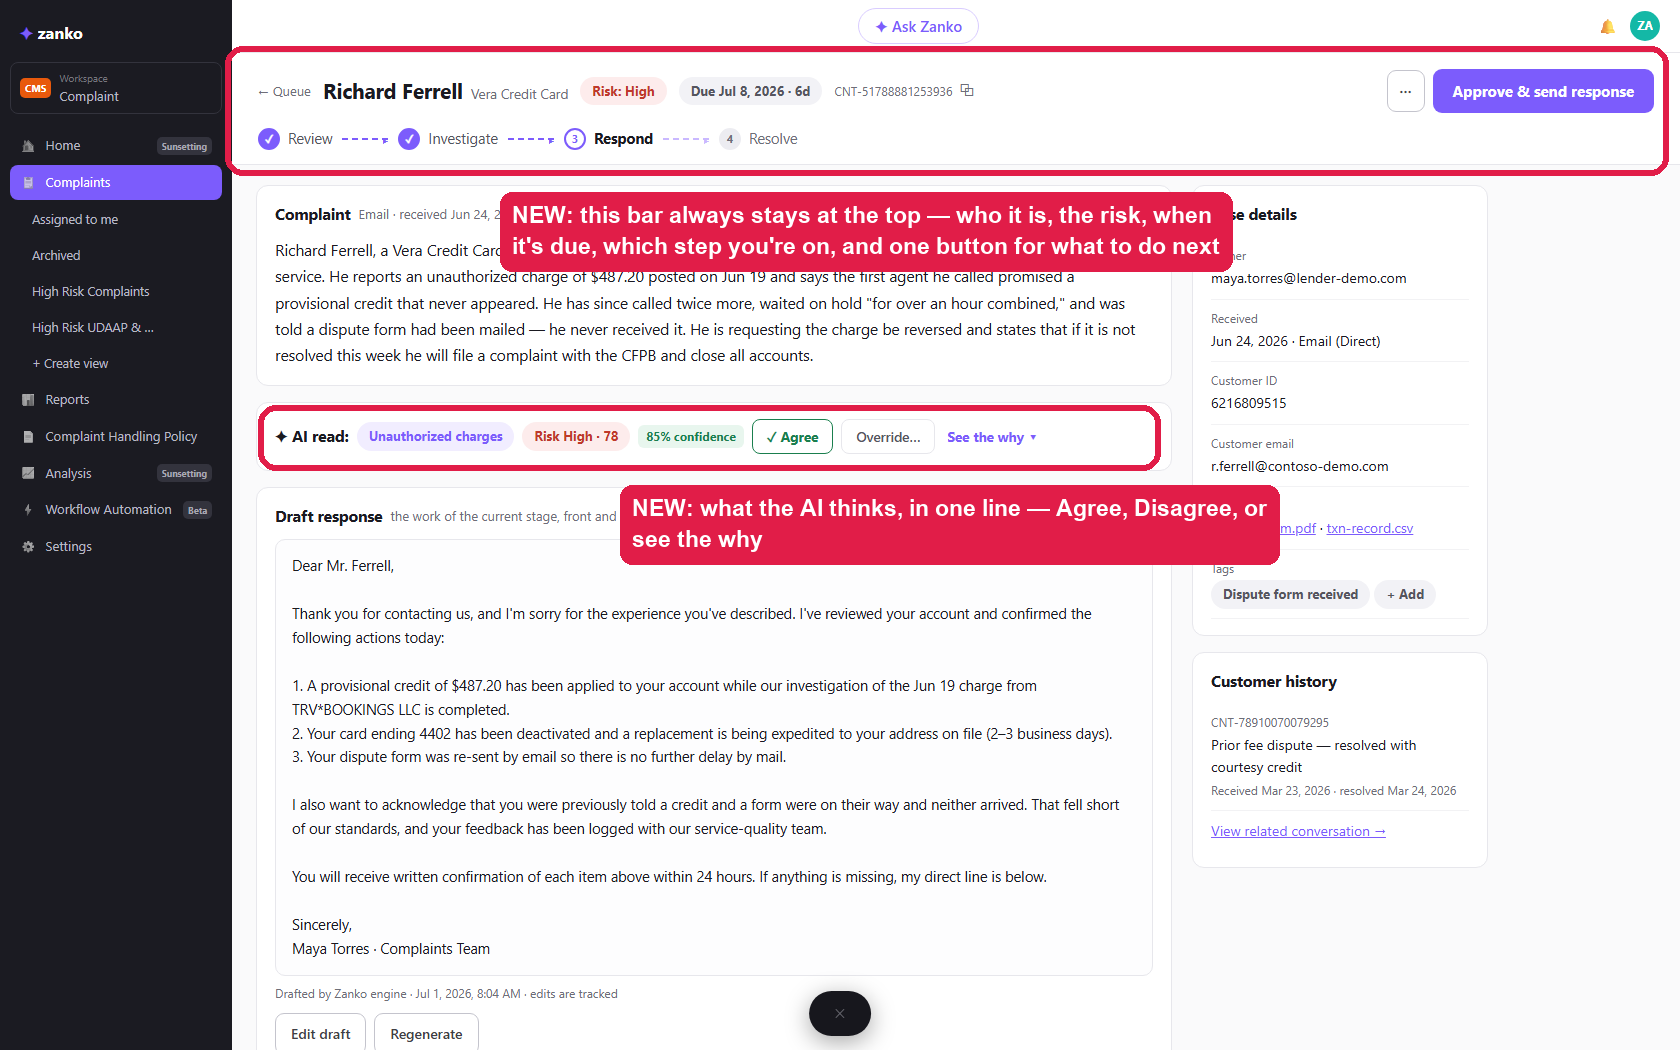
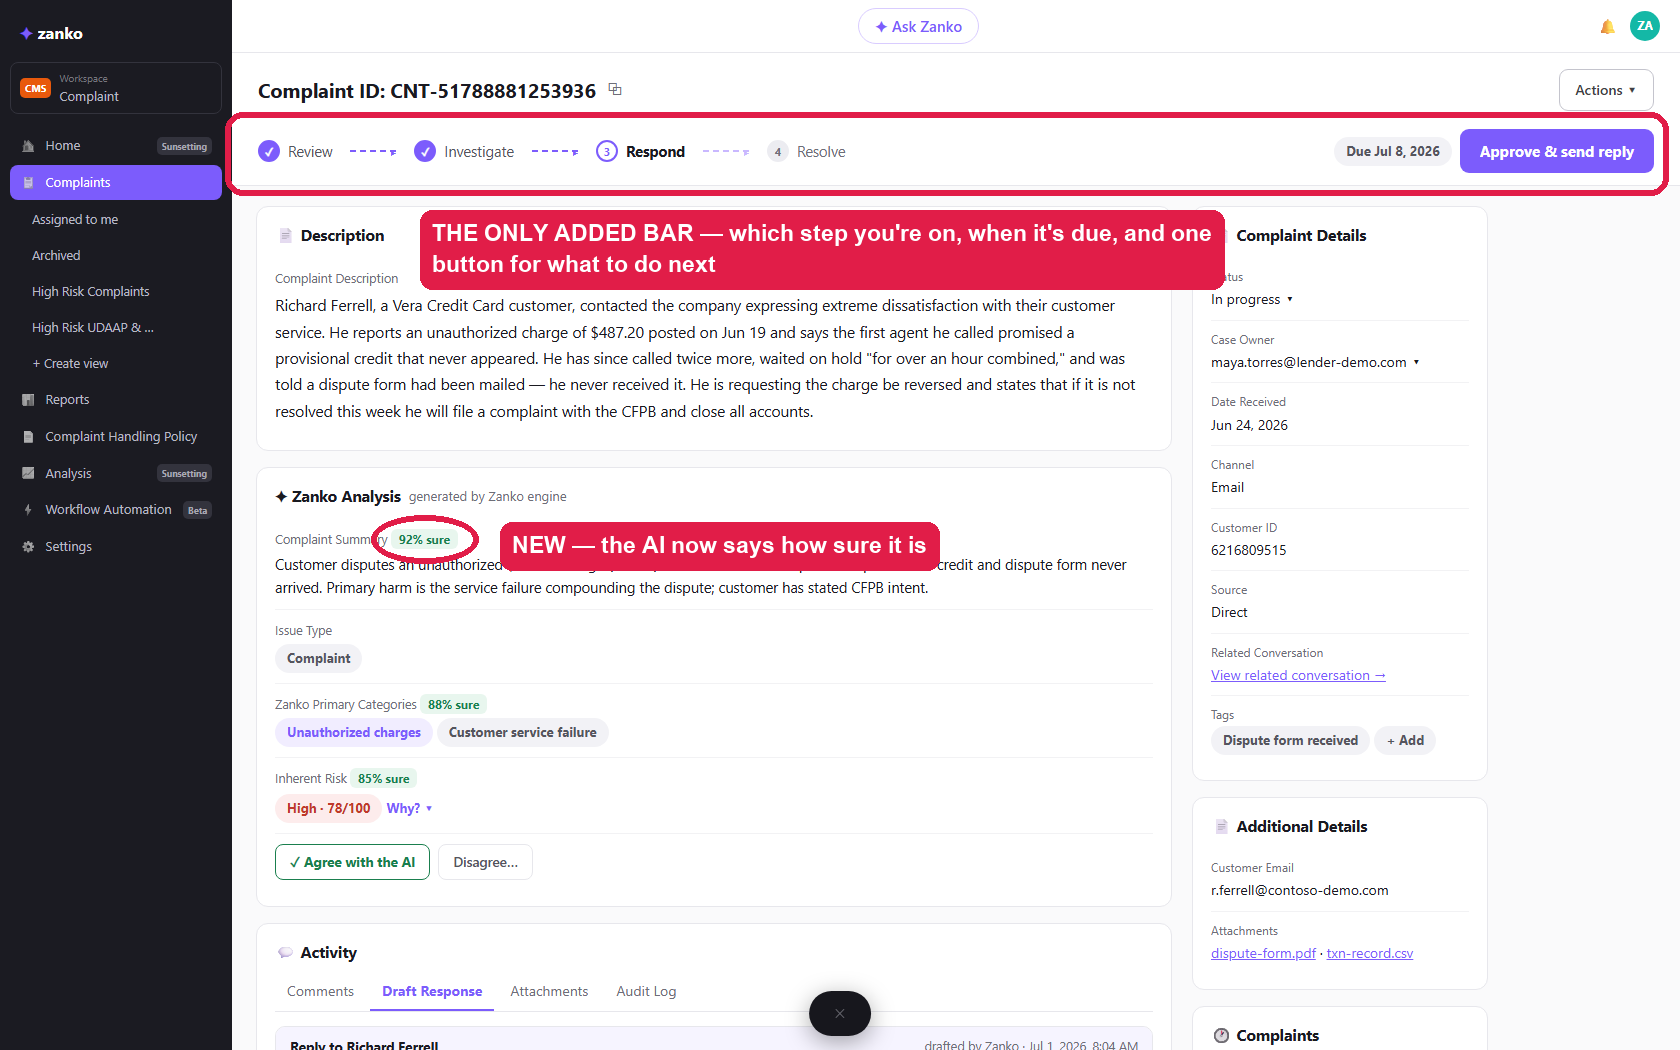
Sync write-ups to the minimum-intervention redesign
TL;DR, biggest-decisions card, and the design tables on task1.html now
describe the shipped design: their screen untouched plus five
traceable fixes. Hub paragraph updated to match.

diff --git a/task1.html b/task1.html
@@ -31,9 +31,11 @@ a moment in the analyst's day.</p>
     no workflow position, no next action, AI conclusions shown as bare scores she can neither
     question nor correct. It even shows state that reads as contradictory (closed before
     resolved, on a case still "waiting on customer") with nothing to reconcile it.</li>
-    <li><strong>Redesign:</strong> a command strip (workflow stepper + one computed next action +
-    SLA), the complaint readable in full, an AI assessment with confidence, evidence, and
-    agree/override, the stage's work inline, one auditable timeline.</li>
+    <li><strong>Redesign:</strong> minimum intervention — Zanko's existing screen, unchanged, plus
+    five fixes: an added steps-and-next-action bar; the complaint shown in full; confidence, an
+    expandable "why," and Agree/Disagree woven into the existing analysis fields; the draft reply
+    surfaced when it's time to respond; resolution fields only on resolved cases. Analysts
+    relearn nothing.</li>
     <li><strong>Left out on purpose:</strong> queue redesign, nav changes, AI configuration,
     layout customization, real backend.</li>
     <li><strong>Proof:</strong> <a href="prototype.html">the clickable prototype</a> — six states,
@@ -222,82 +224,39 @@ from it:</p>
 
 <div class="card" style="border-left:3px solid var(--accent)">
   <h3 style="margin-top:0">The three decisions that matter most</h3>
-  <p><strong>1 — The workflow became the screen's spine.</strong> A persistent stepper plus one
-  primary action computed from stage and AI state, so "where is this case and what do I do next"
-  is answered before anything else.</p>
-  <p><strong>2 — AI output became an assessment, not a scorecard.</strong> Every conclusion carries
-  its confidence, its evidence, and an agree/override control — the analyst can finally do what the
-  brief asks: trust it or question it.</p>
-  <p style="margin-bottom:0"><strong>3 — The screen reshapes around the stage.</strong> In Respond,
-  the draft response is the centerpiece instead of a buried tab; when resolved, the case becomes a
-  read-only record. Same data, ordered by the job.</p>
+  <p><strong>1 — Minimum intervention.</strong> The current screen's layout survives untouched;
+  every change maps to a diagnosed problem. A redesign nobody has to relearn is a redesign that
+  can actually ship.</p>
+  <p><strong>2 — The workflow became visible, with one computed next action.</strong> One added
+  bar answers the brief's two "always know" demands; the button's label defines each stage
+  concretely.</p>
+  <p style="margin-bottom:0"><strong>3 — AI conclusions became accountable.</strong> Each AI field
+  shows how sure it is; the "why" is one click away; Agree/Disagree records the human's call —
+  the brief's "trust (or question) the AI," made into buttons.</p>
 </div>
 
-<p>Same design language — Zanko's sidebar, cards, chips, and purple stay. What changes is the
-structure. Three zones, in Maya's reading order:</p>
-
-<h3>Information design</h3>
+<p>The design philosophy is <strong>minimum intervention</strong>: their screen, their sections,
+their labels, their right rail — untouched. Five changes only, each traceable to the diagnosis:</p>
 <div class="table-scroll"><table>
-  <tr><th>Decision</th><th>Why (traced)</th></tr>
-  <tr><td><strong>Case header strip:</strong> customer + product + risk chip + SLA countdown +
-    workflow stepper + one primary action. Always visible. The stepper renders whatever stages the
-    case's workflow defines (Zanko has a Workflow Automation area — flows will vary); the
-    four-stage flow shown is the brief's illustration.</td>
-    <td>Answers S1 and S4 before any scrolling. <span class="tag">R1 R5 R6 R10</span></td></tr>
-  <tr><td><strong>Complaint first, full text,</strong> ~12-line preview with a single expand for
-    genuinely long content.</td>
-    <td>Reading is the job; the reader controls disclosure, not the layout. <span class="tag">R2</span></td></tr>
-  <tr><td><strong>One "Zanko Assessment" card</strong> merging the old Analysis + Resolution
-    Analysis: summary, categorization, one risk verdict that explains itself — each conclusion with a
-    confidence badge and a "why" (evidence quoted from the complaint).</td>
-    <td>An assessment the analyst can question replaces scores taken on faith; the two risk ratings
-    (alleged vs. inherent) are explained together instead of contradicting each other a screen apart. <span class="tag">R3</span></td></tr>
-  <tr><td><strong>Stage workspace inline:</strong> in Respond, the draft response sits in the main
-    column with Approve &amp; Send as the primary action.</td>
-    <td>The screen reshapes itself around the stage's work. <span class="tag">R6 R7</span></td></tr>
-  <tr><td><strong>One timeline,</strong> filterable (all / comments / AI actions / audit), replacing
-    the four-tab Activity block.</td>
-    <td>Comments, AI events, and system events are one auditable history. <span class="tag">R8</span></td></tr>
-  <tr><td><strong>Right rail regrouped</strong> into one Details card + customer history;
-    attachments live there too with a visible count, one click away.</td>
-    <td>Reference material stays reachable but quiet, grouped by meaning. <span class="tag">R9</span></td></tr>
+  <tr><th>Change</th><th>Fixes</th></tr>
+  <tr><td><strong>1 · One added bar</strong> — workflow steps, the due date, and a single
+    next-action button whose label names the stage's exit ("Start investigating" → "Write the
+    reply" → "Approve &amp; send reply" → "Mark resolved").</td>
+    <td>No workflow position, no next action anywhere <span class="tag">R1 R5 R6 R10</span></td></tr>
+  <tr><td><strong>2 · The complaint shows in full.</strong> Genuinely long threads fold under the
+    reader's control.</td>
+    <td>Reading the case cost a "See More" click on every case <span class="tag">R2</span></td></tr>
+  <tr><td><strong>3 · The existing Zanko Analysis fields carry confidence,</strong> an expandable
+    "why" with quoted evidence, and Agree / Disagree with a required, recorded reason. When
+    confidence is low, the reasoning opens itself and the reply is held.</td>
+    <td>Bare scores with no reasons and no way to disagree <span class="tag">R3 R4</span></td></tr>
+  <tr><td><strong>4 · The Draft Response tab opens itself</strong> at the Respond stage, the reply
+    framed as a letter with Approve &amp; send inside.</td>
+    <td>Her main work product was hidden behind an unselected tab <span class="tag">R6 R7</span></td></tr>
+  <tr><td><strong>5 · Resolution fields render only on resolved cases,</strong> and an overdue
+    case gets the screen's only red banner.</td>
+    <td>Resolution content on open cases; no urgency signal <span class="tag">R9 R10</span></td></tr>
 </table></div>
-
-<p><strong>A feasibility note on the AI features.</strong> Confidence badges and quoted evidence
-require the AI layer to report how confident it is and cite the passages it relied on. If today's engine doesn't,
-the design degrades gracefully — conclusions render without badges and the "why" block simply
-isn't shown — but I'd argue for building it: it's the difference between an AI feature analysts
-use and one they route around, and the agent already extracts these spans to categorize at all.</p>
-
-<h3>Behavioral design</h3>
-<div class="table-scroll"><table>
-  <tr><th>Decision</th><th>Why (traced)</th></tr>
-  <tr><td><strong>The primary action is computed from stage + AI state.</strong> Respond + confident
-    draft → "Approve &amp; send". Low-confidence analysis → "Review AI analysis" and the send
-    button steps back until a human has looked.</td>
-    <td>The system proposes; the analyst disposes. Guardrail, not gate. <span class="tag">R3 R6</span></td></tr>
-  <tr><td><strong>Agree / Override on every AI conclusion.</strong> Agreeing is one click
-    (frequent, cheap). Overriding asks for a reason (rare, consequential) and writes to the
-    timeline.</td>
-    <td>Friction proportional to consequence — and every override becomes audit evidence for Dana.
-    <span class="tag">R4 R8</span></td></tr>
-  <tr><td><strong>SLA escalates visually:</strong> quiet date → amber "due soon" → red overdue
-    banner. Nothing else on the screen competes with red.</td>
-    <td>Color is reserved for state that demands action. <span class="tag">R10</span></td></tr>
-  <tr><td><strong>Resolve confirms once, then the case goes read-only</strong> with a closure
-    summary — and offers "Next case in queue" so the loop continues without a trip back to the
-    list.</td>
-    <td>Terminal actions deserve one deliberate step; at ~40 cases a day the return trip is the
-    hidden tax. <span class="tag">R8 S7</span></td></tr>
-</table></div>
-
-<h3>How I'd know it worked</h3>
-<p>Three numbers, all measurable in Zanko today: <strong>time-per-case</strong> (open → advance)
-should drop; <strong>SLA breaches</strong> should drop; and the <strong>AI override rate</strong>
-becomes visible for the first time — if analysts override often, that's product feedback about the
-model; if they never override, that's a warning the confidence scores may be off — worth investigating. The redesign
-doesn't just help Maya — it starts measuring the human-AI relationship.</p>
-
 <h3>What I removed, and why</h3>
 <ul>
   <li><strong>"Complaint Summary" as a separate field</strong> — it restated the description; the

diff --git a/index.html b/index.html
@@ -41,13 +41,13 @@ prototype.</p>
   unexplained. In short: it renders the database record, not the analyst's job.</p>
 
   <h3>What I built</h3>
-  <p>The redesign keeps Zanko's look and reorganizes the screen around the analyst's day. A header
-  strip stays visible at all times: who the customer is, the risk, the SLA deadline (the date a response is due), a workflow
-  stepper (a progress bar of the case's steps), and <strong>one suggested next action</strong> computed from the case's stage and the
-  AI's state. The complaint is readable in full. The AI's conclusions come with confidence levels,
-  quoted evidence, and Agree / Override buttons — overriding asks for a reason and writes it to
-  the audit log. The draft response sits front and center when the case is ready to send, and
-  everything the analyst or the AI does lands in one filterable, auditable timeline.</p>
+  <p>Minimum intervention: Zanko's existing screen — same sections, same labels, same right
+  rail — plus five fixes, each mapped to a diagnosed problem. One added bar shows the workflow
+  steps and <strong>one suggested next action</strong>. The complaint shows in full. The existing
+  AI fields now say how sure they are, offer their reasoning one click away, and take Agree or
+  Disagree with a reason that's saved for auditors. The draft reply opens itself when it's time
+  to respond. Resolution fields appear only when a case is actually resolved. Analysts relearn
+  nothing.</p>
 
   <p>
     <a class="btn" href="prototype.html">Open the clickable prototype</a>&nbsp;
